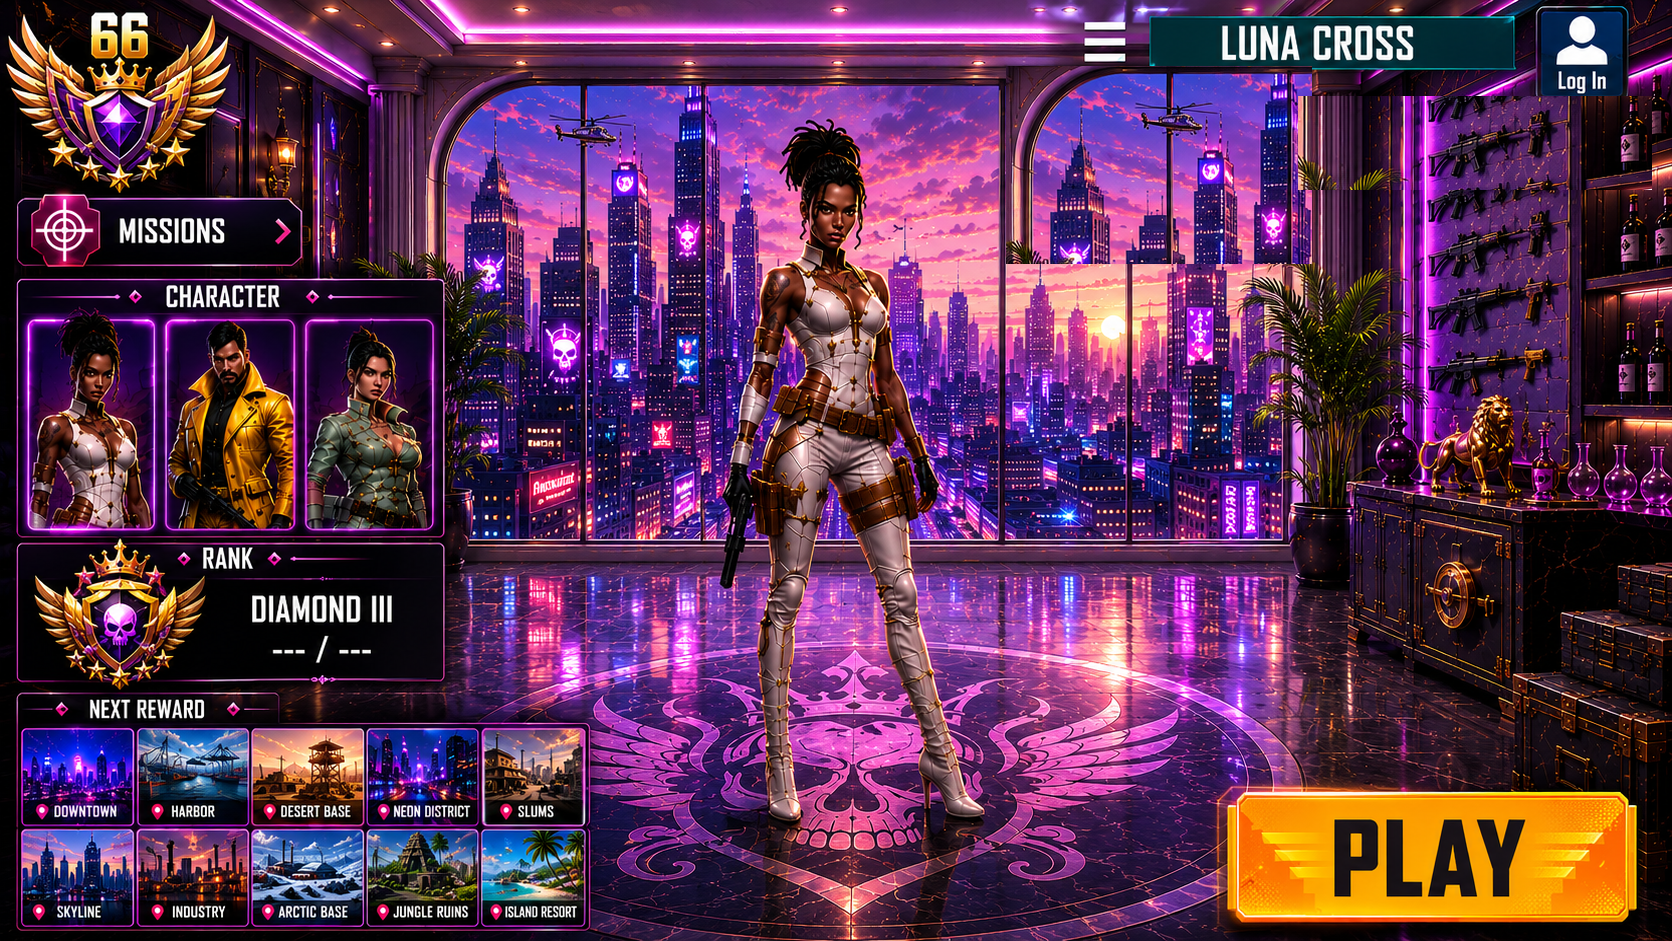
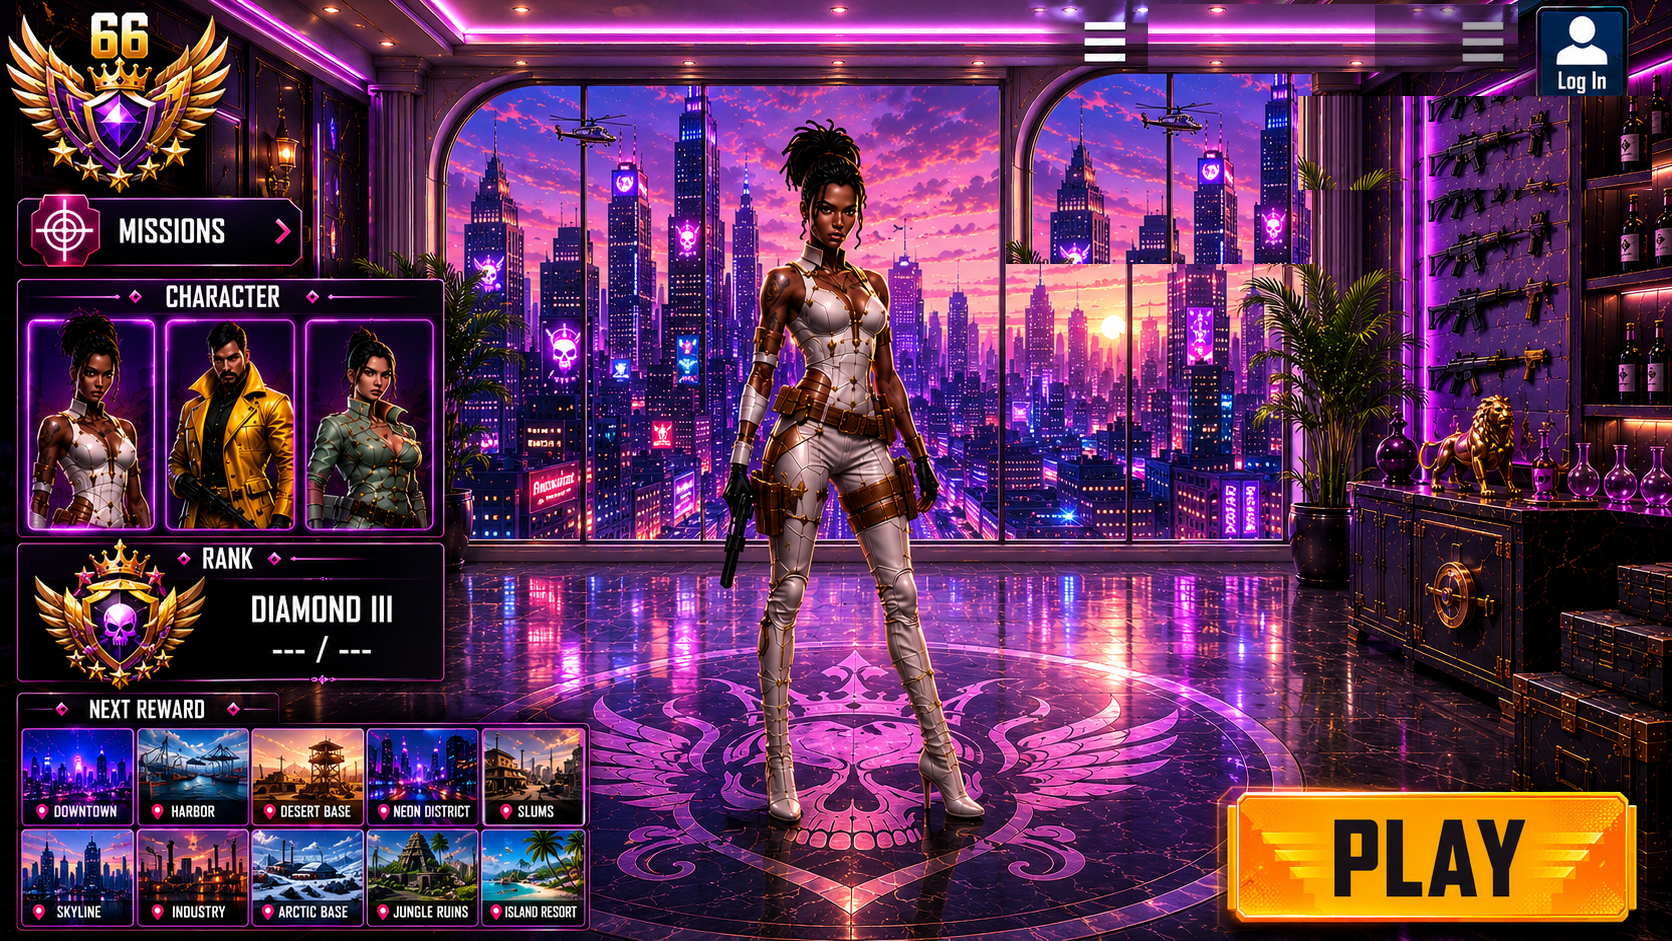
Polish lobby reference UI

Changed region(s): [[0.6842, 0.0, 0.933, 0.0925]]

diff --git a/App.tsx b/App.tsx
@@ -46,6 +46,42 @@ const homeBossMale = require('./assets/home-boss-male.png');
 const homeBossFemale = require('./assets/home-boss-female.png');
 const loadingHeroAspectRatio = 1448 / 1086;
 const loadingHeroZoom = 1.12;
+const homeRewardNames = [
+  'Downtown',
+  'Harbor',
+  'Desert Base',
+  'Neon Outpost',
+  'Slums',
+  'Skyline',
+  'Industry',
+  'Arctic Base',
+  'Jungle Ruins',
+  'Island Resort',
+  'Mega Lab',
+  'Spaceport',
+  'Wasteland',
+  'Oasis Ruins',
+  'Crystal Canyon',
+  'Volcano Core',
+];
+const homeRewardColors = [
+  '#201a6f',
+  '#1c416b',
+  '#a86a27',
+  '#33138b',
+  '#8d4a20',
+  '#1d3b88',
+  '#852319',
+  '#22435a',
+  '#176644',
+  '#0f7c87',
+  '#352077',
+  '#28246e',
+  '#945223',
+  '#7d5525',
+  '#3f2586',
+  '#661b65',
+];
 
 type RunResult = {
   cashEarned: number;
@@ -591,6 +627,28 @@ function HomeScreen({
       <View pointerEvents="none" style={screenStyles.menuRankLabelPatch}>
         <Text style={screenStyles.menuRankLabel} numberOfLines={1} adjustsFontSizeToFit minimumFontScale={0.55}>{rankLabel}</Text>
       </View>
+      <View pointerEvents="none" style={screenStyles.menuRewardPanel}>
+        <Text style={screenStyles.menuRewardTitle}>NEXT REWARD</Text>
+        <View style={screenStyles.menuRewardGrid}>
+          {homeRewardNames.map((name, index) => (
+            <View key={name} style={screenStyles.menuRewardCard}>
+              <View style={[screenStyles.menuRewardThumb, { backgroundColor: homeRewardColors[index] }]}>
+                <View style={screenStyles.menuRewardGlow} />
+                <View style={[screenStyles.menuRewardSkyline, { left: '8%', height: '34%' }]} />
+                <View style={[screenStyles.menuRewardSkyline, { left: '28%', height: '58%' }]} />
+                <View style={[screenStyles.menuRewardSkyline, { left: '52%', height: '45%' }]} />
+                <View style={[screenStyles.menuRewardSkyline, { left: '76%', height: '68%' }]} />
+              </View>
+              <View style={screenStyles.menuRewardLabelRow}>
+                <Text style={screenStyles.menuRewardDot}>●</Text>
+                <Text style={screenStyles.menuRewardName} numberOfLines={1} adjustsFontSizeToFit minimumFontScale={0.55}>
+                  {name.toUpperCase()}
+                </Text>
+              </View>
+            </View>
+          ))}
+        </View>
+      </View>
       <View pointerEvents="none" style={screenStyles.menuLivesPatch}>
         {lives.map((filled, index) => (
           <Text key={index} style={[screenStyles.menuLifeHeart, !filled && screenStyles.menuLifeHeartEmpty]}>
@@ -600,6 +658,7 @@ function HomeScreen({
       </View>
       <View pointerEvents="none" style={screenStyles.menuBossCard}>
         <Text style={screenStyles.menuBossTitle}>BOSS</Text>
+        <View style={screenStyles.menuBossSlash} />
         <View style={screenStyles.menuBossPortraitRow}>
           <View style={screenStyles.menuBossPortraitWrap}>
             <Image source={homeBossMale} resizeMode="cover" style={screenStyles.menuBossPortrait} />
@@ -1367,17 +1426,17 @@ const screenStyles = StyleSheet.create({
   },
   menuNamePatch: {
     position: 'absolute',
-    left: '68.8%',
-    top: '2.1%',
-    width: '22.0%',
-    height: '5.2%',
+    left: '81.8%',
+    top: '2.2%',
+    width: '10.4%',
+    height: '4.3%',
     alignItems: 'center',
     justifyContent: 'center',
     backgroundColor: '#aacdf8',
   },
   menuNameText: {
     color: '#17110a',
-    fontSize: 21,
+    fontSize: 15,
     fontWeight: '900',
     letterSpacing: 0,
     textAlign: 'center',
@@ -1401,12 +1460,92 @@ const screenStyles = StyleSheet.create({
     textAlign: 'center',
     includeFontPadding: false,
   },
+  menuRewardPanel: {
+    position: 'absolute',
+    left: '0.9%',
+    top: '62.4%',
+    width: '30.5%',
+    height: '35.6%',
+    borderWidth: 1,
+    borderColor: '#ff4bd8',
+    borderRadius: 3,
+    backgroundColor: 'rgba(3,3,7,0.94)',
+    paddingHorizontal: 6,
+    paddingTop: 17,
+    paddingBottom: 5,
+  },
+  menuRewardTitle: {
+    position: 'absolute',
+    top: -1,
+    left: 58,
+    right: 58,
+    color: colors.text,
+    fontSize: 12,
+    fontWeight: '900',
+    textAlign: 'center',
+    includeFontPadding: false,
+    backgroundColor: '#060407',
+  },
+  menuRewardGrid: {
+    flex: 1,
+    flexDirection: 'row',
+    flexWrap: 'wrap',
+    columnGap: 3,
+    rowGap: 3,
+  },
+  menuRewardCard: {
+    width: '23.0%',
+    height: '22.0%',
+    borderWidth: 1,
+    borderColor: '#ff3dc7',
+    backgroundColor: '#090711',
+    padding: 2,
+  },
+  menuRewardThumb: {
+    flex: 1,
+    overflow: 'hidden',
+  },
+  menuRewardGlow: {
+    position: 'absolute',
+    right: -6,
+    top: -5,
+    width: 28,
+    height: 28,
+    borderRadius: 14,
+    backgroundColor: 'rgba(255,188,74,0.65)',
+  },
+  menuRewardSkyline: {
+    position: 'absolute',
+    bottom: 0,
+    width: '12%',
+    backgroundColor: 'rgba(5,4,16,0.72)',
+  },
+  menuRewardLabelRow: {
+    height: 10,
+    flexDirection: 'row',
+    alignItems: 'center',
+    gap: 2,
+    paddingTop: 1,
+  },
+  menuRewardDot: {
+    color: '#ff247d',
+    fontSize: 5.5,
+    includeFontPadding: false,
+  },
+  menuRewardName: {
+    flex: 1,
+    color: colors.text,
+    fontSize: 5.2,
+    fontWeight: '900',
+    includeFontPadding: false,
+    letterSpacing: 0,
+  },
   menuLivesPatch: {
     position: 'absolute',
-    right: '4.4%',
-    top: '10.2%',
-    width: '15.8%',
-    height: '5.1%',
+    right: '2.0%',
+    top: '9.9%',
+    width: '16.9%',
+    height: '5.3%',
     flexDirection: 'row',
     alignItems: 'center',
     justifyContent: 'center',
@@ -1414,7 +1553,7 @@ const screenStyles = StyleSheet.create({
   },
   menuLifeHeart: {
     color: colors.red,
-    fontSize: 21,
+    fontSize: 24,
     fontWeight: '900',
     includeFontPadding: false,
     textShadowColor: '#ffffff',
@@ -1427,11 +1566,11 @@ const screenStyles = StyleSheet.create({
   },
   menuLunaName: {
     position: 'absolute',
-    left: '54.2%',
-    top: '64.0%',
+    left: '58.0%',
+    top: '76.8%',
     maxWidth: '18%',
     color: '#fff4fb',
-    fontSize: 15,
+    fontSize: 18,
     fontWeight: '900',
     textShadowColor: '#ff3aa8',
     textShadowRadius: 8,
@@ -1443,10 +1582,10 @@ const screenStyles = StyleSheet.create({
   },
   menuBossCard: {
     position: 'absolute',
-    right: '5.0%',
-    top: '17.7%',
-    width: '11.7%',
-    height: '17.0%',
+    right: '6.0%',
+    top: '17.1%',
+    width: '11.6%',
+    height: '20.7%',
     borderWidth: 1,
     borderColor: '#ff4bd8',
     backgroundColor: 'rgba(8,4,10,0.74)',
@@ -1463,7 +1602,7 @@ const screenStyles = StyleSheet.create({
     backgroundColor: 'rgba(138,18,113,0.72)',
     borderWidth: 1,
     borderColor: '#ff4bd8',
-    fontSize: 11,
+    fontSize: 12,
     fontWeight: '900',
     textAlign: 'center',
     includeFontPadding: false,
@@ -1480,6 +1619,20 @@ const screenStyles = StyleSheet.create({
     justifyContent: 'flex-end',
     paddingBottom: 3,
     overflow: 'hidden',
+  },
+  menuBossSlash: {
+    position: 'absolute',
+    left: '48%',
+    top: '12%',
+    width: 4,
+    height: '72%',
+    zIndex: 3,
+    borderRadius: 6,
+    backgroundColor: '#fff2ff',
+    shadowColor: '#ff4bd8',
+    shadowOpacity: 1,
+    shadowRadius: 8,
+    transform: [{ rotate: '20deg' }],
   },
   menuBossPortrait: {
     position: 'absolute',
@@ -1503,7 +1656,7 @@ const screenStyles = StyleSheet.create({
     borderColor: '#ff4bd8',
     paddingHorizontal: 4,
     paddingVertical: 1,
-    fontSize: 8,
+    fontSize: 8.5,
     fontWeight: '900',
     includeFontPadding: false,
   },